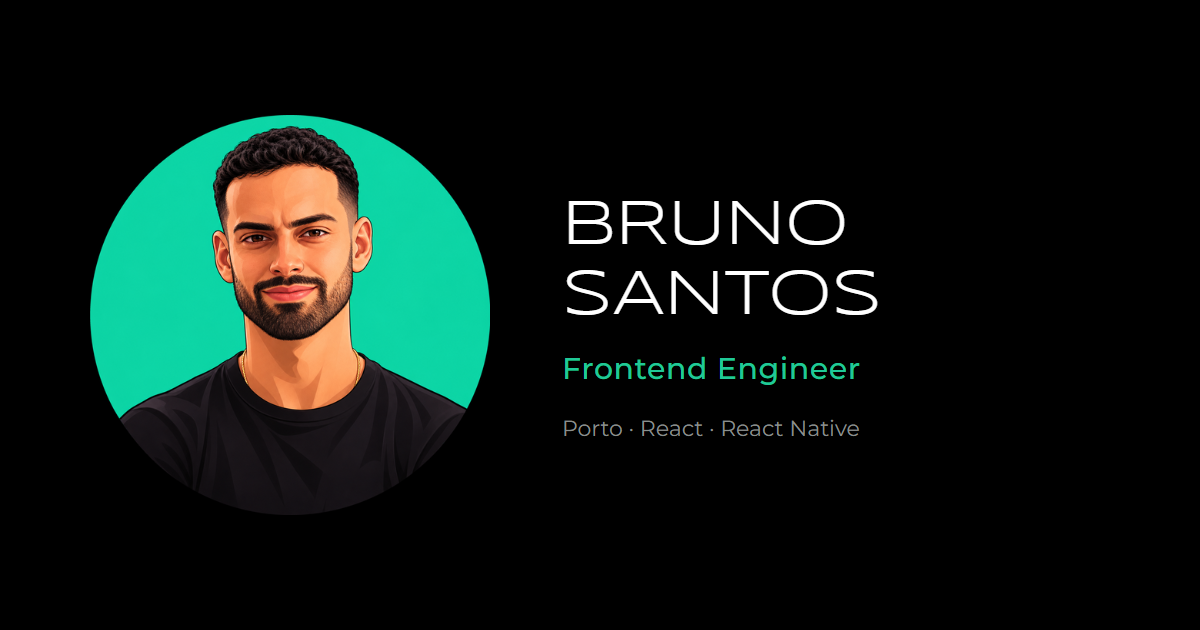
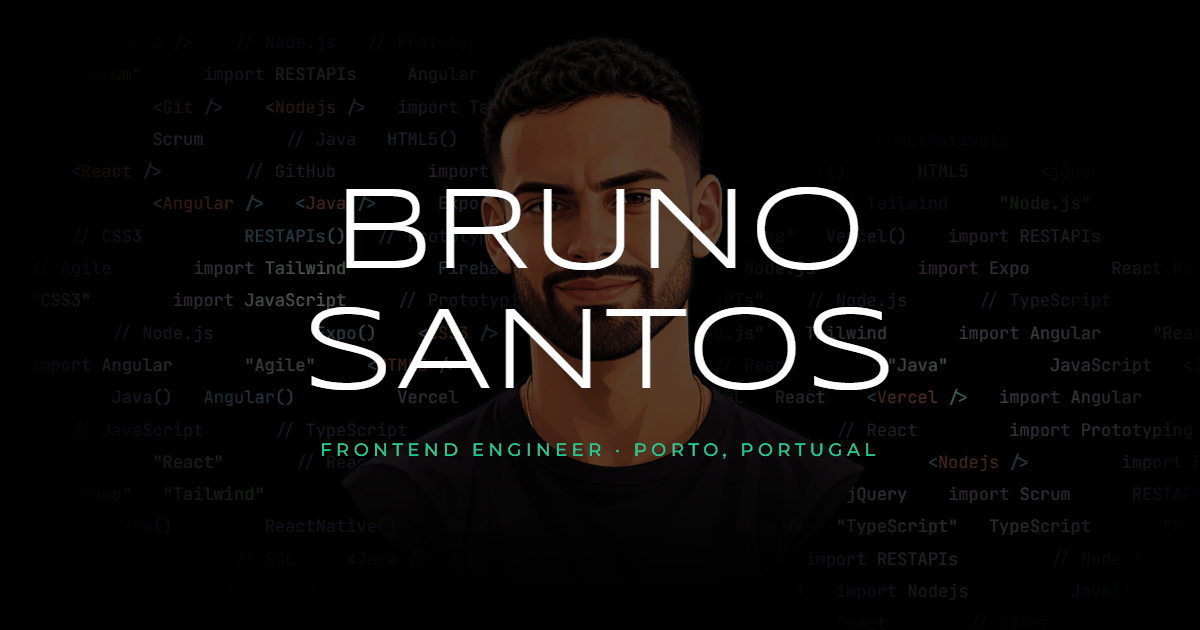
new share image

diff --git a/index.html b/index.html
@@ -19,7 +19,7 @@
         <meta property="og:title" content="Bruno Santos · Frontend Engineer" />
         <meta property="og:description" content="Four years of production frontend, plus my own products and client work, from idea to launch." />
         <meta property="og:url" content="https://brun0sant0s.github.io/myCV/" />
-        <meta property="og:image" content="https://brun0sant0s.github.io/myCV/og-image.png" />
+        <meta property="og:image" content="https://brun0sant0s.github.io/myCV/og-image.png?v=2" />
         <meta property="og:image:width" content="1200" />
         <meta property="og:image:height" content="630" />
         <meta name="twitter:card" content="summary_large_image" />
